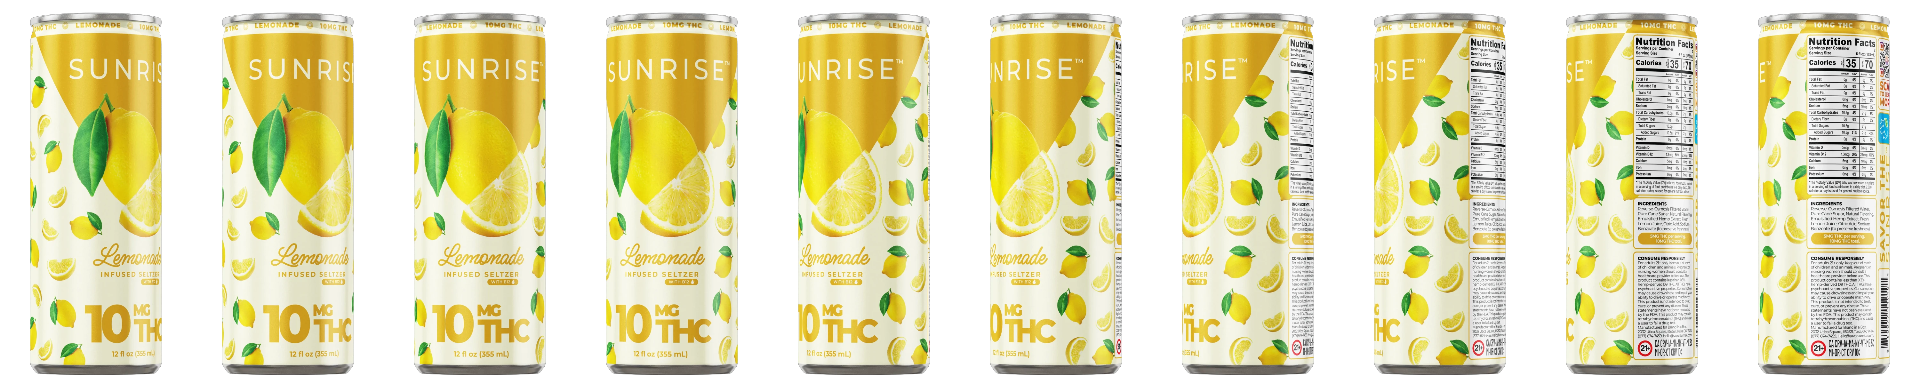
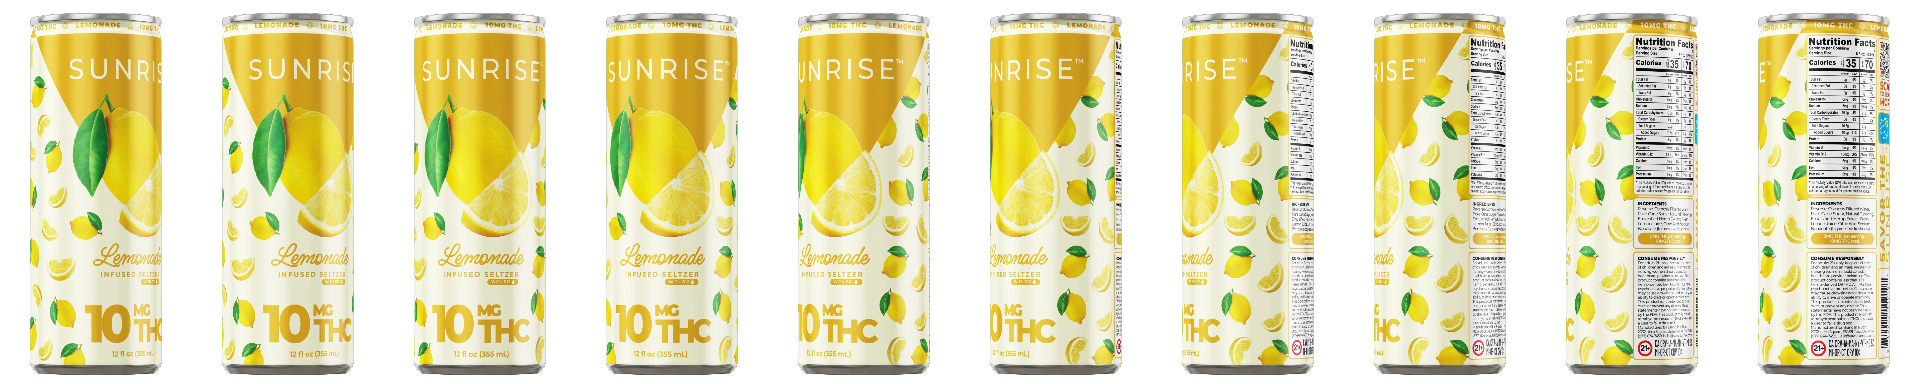
Changes

diff --git a/src/routes/social.css b/src/routes/social.css
@@ -85,7 +85,7 @@
   inset: 0 auto 0 0;
   width: 1000%;
   height: 100%;
-  animation: social-can-rotate 3.3s steps(10) infinite;
+  animation: social-can-rotate 6s steps(10) infinite;
   will-change: transform;
 }
 .social-rotator-strip img {
